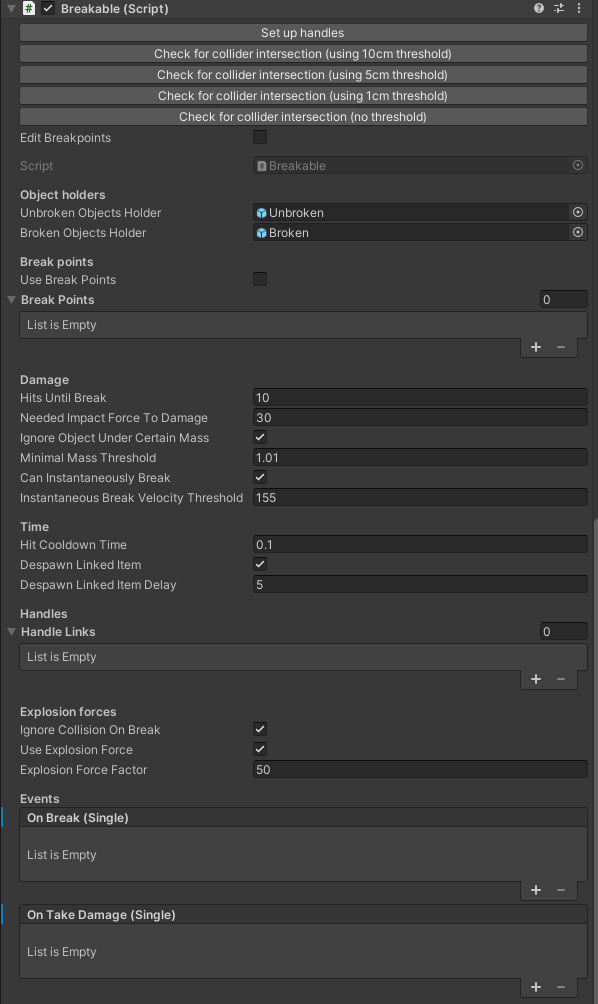
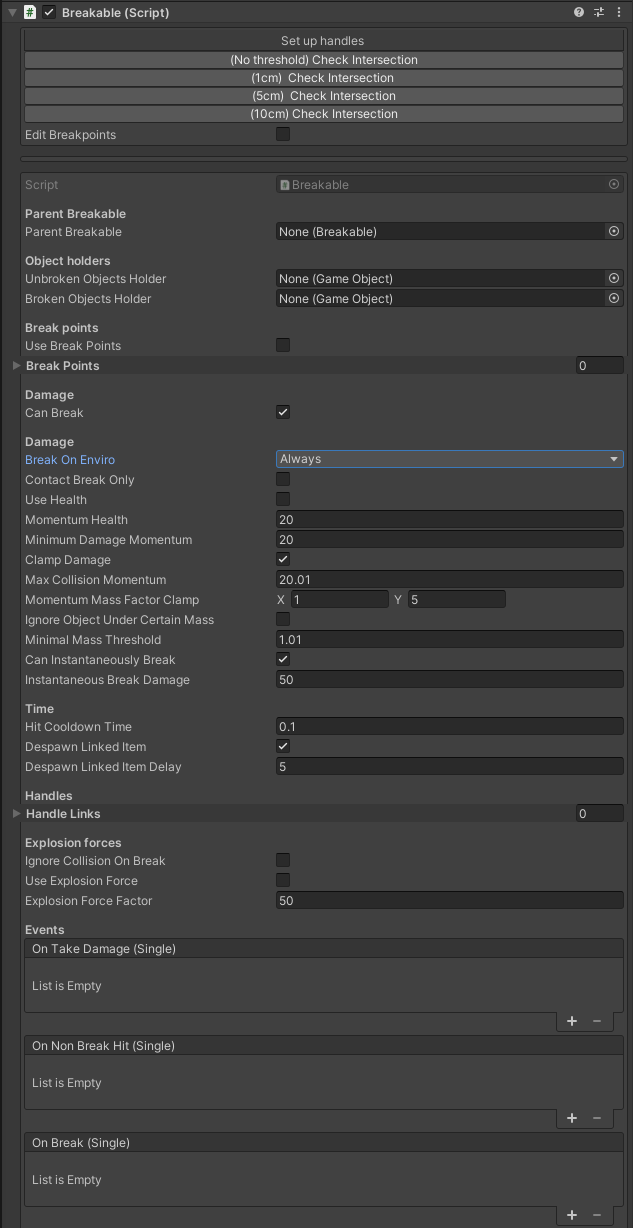
Lever Docs, Breakable Update, Subtle updated to item, HingeDrive

diff --git a/Components/ThunderRoad/Items/Breakable.md b/Components/ThunderRoad/Items/Breakable.md
@@ -43,36 +43,48 @@ This component contains a lot of Gizmo to help you check visually if the item is
 
 | Field										  | Description
 | ---										  | ---
+| **Parent Breakable**
+| Parent Breakable                            | The parent of a breakable item if applicable.                                          
 | **Object Holders**
 | Unbroken Objects Holder					  | Parent GameObject containing the unbroken/full item.
 | Broken Objects Holder						  | Parent GameObject containing the broken meshes/items.
 | **Break Points**
 | Break Points								  | Here, you can edit a specific point of which the item will break. You can create a sphere to make it so the item can only break if hit in this certain area.
 | **Damage**
-| Hits Until Break							  | This number determines how many hits it will take before the item is broken. 
-| Needed Impact Force to Damage				  | This determines the force required to the object to count as a "Hit" for the item to break.
-| Ignore Object Under Certain Mass			  | This determines the the minimum mass an item needs to be to count as a "Hit" for the item to break.
+| Can Break                                   | When enabled, item can break.
+| Break on Envuro                             | When set to "Always", the item can break on static environment. 
+| Contact Break Only                          | When enabled, item can only be broken by something that isn't a collission.
+| Use Health    							  | When ticked, this item should use the "momentum health" field. If disabled, item will break in one sufficient hit
+| Momentum Health           				  | How much "Health" the item has. This amount is decreased proportional to the strength/velocity of the hit.
+| Minimum Damage Momentum       			  | The mimimum momentum needed for a hit to count for damage (to damage Momentum Health)
+| Clamp Damage                                | Applies a maximum amount of "momentum health" damage that can be dealt in a single hit. This can ensure that the item can't be broken in one single big hit.
+| Max Collission Momentum                     | This is the maximum momentum damage that can be taken in a single hit. Will only work if "Clamp Damage" is enabled.
+| Momentum Mass Factor Clamp                  | The Minimum/Maximum values for the mass factor to calculate momentum. Only change this if you find that heavy/light objects aren't properly affecting the breakable item.
+| Ignore Objects Under Certain Mass           | When enabled, items with a mass under the "Mimimal Mass Threshold" will not damage the breakable health
+| Mimumal Mass Threshold                      | Minimum mass of an item that can deal damage to the breakable item. Any item with a mass under this threshold will not do damage.
 | Can Instantaneously Break					  | When ticked, the item can ignore "Hits Until Break" if "Instantaneously Break Velocity Threshold" is met
-| Instantantaneously Break Velocity Threshold | Velocity of which the item will break if "Can Instantaneously Break" is ticked.
+| Instantantaneously Break Damage             | Momentum damage required to instantly break the item.
 | **Time**
 | Hit Cooldown Time							  | The cooldown of how many times items can be "Hit".
 | Despawn Linked Item						  | When ticked, broken items/meshes will despawn.
 | Despawn Linked Item Delay					  | Delay of which the broken items/meshes will despawn when enabled.
 | **Handle**									  
 | Handle Links								  | Will link [Handle][Handle] between the unbroken and broken mesh. Using the button at the top, this will automatically link handles that are in the same place between the two states.
-| Explosion Forces
-| **Ignore Collision on Break**				  | When ticked, broken items will ignore collision with eachother for a short amount of time when the item is broken.
+| **Explosion Forces**
+| Ignore Collision on Break				  | When ticked, broken items will ignore collision with eachother for a short amount of time when the item is broken.
 | Use Explosion Force						  | When ticked, when an Item breaks, broken items/meshes will "explode" in an outward direction, forcing a backward velocity for the object.
 | Explosion Force Factor					  | The force given to the broken objects when they "explode".
 
 ### Events
-The Breakables component has a number of UnityEvents that are invoked when a Breakable item is Hit or Broken.   
+The Breakables component has a number of UnityEvents that are invoked when a Breakable item is Hit or Broken.  
+ 
 [Unity Event Documentation](https://docs.unity3d.com/Manual/UnityEvents.html){: .btn .btn-purple }
 
 | Event										  | Description
 | ---										  | ---
-| On Break									  | Event will invoke when the item is broken
 | On Take Damage							  | Event will invoke when the item is "Hit" under the "Hits Until Break" Field.
+| On Non Break Hit                            | Event will invoke when the breakable item is hit by an item that will not break the breakable.
+| On Break									  | Event will invoke when the item is broken
 
 
 

diff --git a/Components/ThunderRoad/Items/Item.md b/Components/ThunderRoad/Items/Item.md
@@ -8,11 +8,11 @@ grand_parent: ThunderRoad
 
 The `Item` script is the core component for items and weapons in Blade and Sorcery. This component is required for the item to work, and is a dependency on a lot of components listed on the weapon.
 
-When this component is added, a Rigidbody is added to the object, as well as three gameobjects: HolderPoint, ParryPoint and [Preview][Preview]. 
-
 {: .warning}
 Do not adjust Rigidbody weight, drag and angular drag, as this is overwritten in the json.
 
+{: .tip}
+You can press the "Setup Default Components" button to create the default components for an item. This includes a HolderPoint, ParryPoint and [Preview][Preview].
 
 ![Inspector][Inspector]
 
@@ -27,7 +27,6 @@ Do not adjust Rigidbody weight, drag and angular drag, as this is overwritten in
 | Main Handle Left/Right            | Used for the handle that is grabbed by Default. See [Handle][Handle] to see handle setup.
 | Fly Dir Ref                       | Used to point in this direction when thrown, so long as "Fly On Throw" is enabled in JSON. Z Axis / Blue arrow points forwards.
 | Preview                           | Automatically added when `Item` script is added. See [Preview][Preview] for setup.
-| Disallow Room Despawn             | When ticked, will not despawn when situated inside a Dungeon room.
 | World Attached                    | Used for Items that are connected to the world. An example is hanging items and doors.
 | Creature Physic Toggle Radius     | Radius to depict how close this item needs to be to a creature before the creatures' collision is enabled.
 | Use Custom Center of Mass         | Allows user to adjust the center of mass on object. If unticked, this is automatically adjusted. When ticked, adds a custom gizmo to adjust. Use this if weight on the item is acting strange.

diff --git a/Components/ThunderRoad/Items/Lever.md b/Components/ThunderRoad/Items/Lever.md
@@ -3,3 +3,41 @@ parent: Items
 grand_parent: ThunderRoad
 ---
 # Lever
+
+The lever script allows you to create levers and [HingeDrive][HingeDrive] joints that utilise events at certain points.
+
+{: .note}
+Some of the fields used by Lever is a subsidary of [HingeDrive][HingeDrive]. Therefore, only "Lever" fields will be listed except for the "Angles config values", as there will be information on how events are played with these.
+
+## Lever Value Fields
+
+| Field                             | Description
+| ---                               | ---
+| Dead Zone                         | Allows the lever to have a "deadzone" where the angle of the "up" and "down" states is further away from the Minimum/Maximum angle
+| Invert Output                     | Inverts "Up" and "Down"
+
+![Component][Component]
+
+## Events
+
+[Unity Event Documentation](https://docs.unity3d.com/Manual/UnityEvents.html){: .btn .btn-purple }
+
+{: .note}
+This does not cover [HingeDrive][HingeDrive] events, only events used by Lever.
+
+| Event                             | Description
+| ---                               | ---
+| Lever Up Event                    | This is the event that plays when the lever is pushed up, to the "Min Angle"
+| Lever Down Event                  | This is the event that plays when the lever is pushed down, to the "Max Angle"
+| Lever Analog Event                | This event plays during any analog event.
+
+![Gizmo][Gizmo]
+
+
+
+
+
+
+[Component]: {{ site.baseurl }}/assets/components/Lever/component.PNG
+[Gizmo]: {{ site.baseurl }}/assets/components/Lever/gizmo.PNG
+[HingeDrive]: {{ site.baseurl }}{% link Components/ThunderRoad/Items/HingeDrive.md %}

diff --git a/Components/ThunderRoad/Items/HingeDrive.md b/Components/ThunderRoad/Items/HingeDrive.md
@@ -8,7 +8,7 @@ grand_parent: ThunderRoad
 The HingeDrive script is a component which creates a [HingeJoint](https://docs.unity3d.com/Manual/class-HingeJoint.html) on play, and has many features in addition to help with stylised dynamic objects. It includes features such as a motors, latches and [UnityEvents](https://docs.unity3d.com/Manual/UnityEvents.html).
 
 
-## Component Properties
+## Fields
 
 | Field                                       | Description
 | ---                                         | ---
